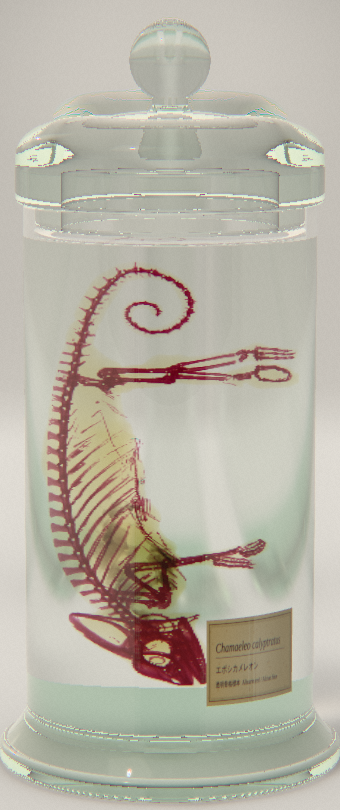
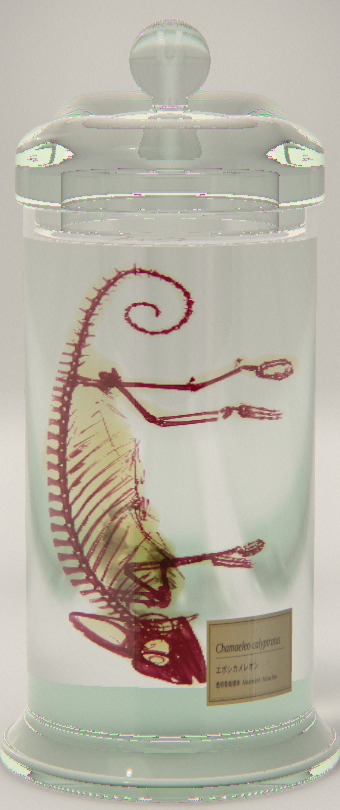
chameleon: re-measure the hind limbs on photo 01 (the shank had been taken for the femur)
- laid over photo 01 at the hips: scale from the head, rotation from the lumbar spine,
  hip midpoint on the photo's hip (fit_hind.py); knee, ankle and toe solved per limb
- the far limb looks ~30% longer in the photo than its bones; its shank and foot match
  direction only
- skin rebuilt in the display pose; glb re-exported

Claude-Session: https://claude.ai/code/session_01TF4RLk5KhXAPd4WrhCdN5z

diff --git a/blender/ct_body_pipeline/fit_hind.py b/blender/ct_body_pipeline/fit_hind.py
@@ -1,0 +1,33 @@
+# 写真 01 の膝・足首・指先に合わせて、後肢の向き（θ, φ）を解く。
+# 頭の 2 点で重ねると胴の曲がりの違いで腰がずれるので、腰のところで重ね直す:
+#   倍率は頭で決めた値（同じ個体）、向きは腰の背骨（v20→v26）を 01 の背骨（腰の高さで縦）にそろえ、股関節の中点を 01 の股関節に置く
+import json, numpy as np, math, sys
+m=json.load(open(sys.argv[1]))
+xz=lambda p: np.array([p[0],p[2]],float)
+ph=lambda p: np.array([p[0],-p[1]],float)
+# 倍率（頭）
+a0,a1=ph((183,338)),ph((278,392)); b0,b1=xz(m['casque']),xz(m['snout'])
+s=np.linalg.norm(b1-b0)/np.linalg.norm(a1-a0)
+# 向き（腰の背骨）
+A=m['axial']; sm=xz(A['v26'][0])-xz(A['v20'][0])
+sp=ph((114,120))-ph((115,200))                      # 01 の背骨、腰の高さ（股関節より尾側へ）
+ang=math.atan2(sm[1],sm[0])-math.atan2(sp[1],sp[0])
+R=np.array([[math.cos(ang),-math.sin(ang)],[math.sin(ang),math.cos(ang)]])
+HIP=(127,160)                                        # 01 の股関節（手前の大腿の、体に近い端）
+hipm=(xz(m['hL_upper'][0])+xz(m['hR_upper'][0]))/2
+T=lambda p: s*R@(ph(p)-ph(HIP))+hipm
+Ti=lambda z: np.linalg.inv(s*R)@(np.asarray(z)-hipm)+ph(HIP)
+print('scale',round(s,4),'rot',round(math.degrees(ang),1))
+ys={c:m[c+'_upper'][0][1] for c in ('hL','hR')}; near=min(ys,key=ys.get); far=max(ys,key=ys.get); print('near',near)
+PTS={near:{'knee':(188,152),'ankle':(218,129),'tip':(256,118)}, far:{'knee':(170,192),'ankle':(226,181),'tip':(277,178)}}
+res={}
+for c in (near,far):
+    pts=PTS[c]; start=xz(m[c+'_upper'][0])
+    q=Ti(start); print(c,'hip in photo',(round(q[0]),round(-q[1])))
+    Ls={'upper':np.linalg.norm(np.subtract(*m[c+'_upper'])),'lower':np.linalg.norm(np.subtract(*m[c+'_lower'])),'foot':np.linalg.norm(np.array(m[c+'_tip'])-np.array(m[c+'_foot'][0]))}
+    for b,k in (('upper','knee'),('lower','ankle'),('foot','tip')):
+        v=T(pts[k])-start; n=np.linalg.norm(v); L=Ls[b]
+        th=math.degrees(math.atan2(v[1],v[0])); phi=math.degrees(math.acos(min(1,n/L)))
+        print(c,b,'in-plane px',round(n/s,1),'bone px',round(L/s,1),'theta',round(th,1),'phi',round(phi,1),'' if n<=L else 'TOO FAR x%.2f'%(n/L))
+        res[c+'_'+b]=(round(th,1),round(phi,1)); start=start+v*min(1,L/n)
+json.dump(res,open('hind_fit.json','w')); print(res)

diff --git a/blender/rig_chameleon_ct.py b/blender/rig_chameleon_ct.py
@@ -63,12 +63,18 @@ POSE_JAR = {
     #   重ねた骨格の関節窩は 01 の (243,305) に来て、01 の上腕（関節窩から肘へ斜めに上がる骨）の下の端と合う。
     #   φ は、面内に見える長さと骨の長さの比から（外へ開く向きと仮定。01 の正面からは向きの前後を読めない）
     #   以前の値（上腕 +17° など）は、前腕を上腕と取り違えて測っていた（2026-10-13 の指摘「丸で囲った骨の位置がおかしい」）
-    # 後肢: 大腿 (165,190)→(230,175) で +13°、下腿 →(280,170) で +6°、足は水平（01、以前の測り方のまま）
+    # 後肢（2026-10-13 に測り直し）: 前肢と同じく、以前は平行な 2 本の骨（下腿）を大腿と取り違えていた。
+    #   頭で重ねると胴の曲がりの違いで腰がずれるので、腰で重ね直した（ct_body_pipeline/fit_hind.py）: 倍率は頭で決めた値、
+    #   向きは腰の背骨（v20→v26）を 01 の腰の高さの背骨（(115,200)→(114,120)、縦）にそろえ、股関節の中点を 01 の (127,160) に置く
+    #   01 の点: 手前の肢 膝 (188,152)・足首 (218,129)・指先 (256,118)（尾の渦の下へ伸びてつかむ肢）。
+    #   奥の肢 膝 (170,192)・足首 (226,181)・指先 (277,178)。奥の肢は 01 の方が骨より 3 割長く見えるので、
+    #   下腿と足は向きだけ合わせ（φ = 0）、指先は 01 より約 17px 手前で止まる
+    #   θ は重ね直した向き（−8.6°）を含む、ほかの骨と同じ世界の向き
     "limbs": {
         "fL_upper": (117.2, 45.1), "fL_lower": (15.5, 23.5), "fL_hand": (0.4, 33.1),
         "fR_upper": (65.2, 69.9), "fR_lower": (3.9, 39.9), "fR_hand": (1.6, 57.9),
-        "hL_upper": (13.0, 35.0), "hL_lower": (6.0, 10.0), "hL_foot": (0.0, 0.0),
-        "hR_upper": (13.0, 35.0), "hR_lower": (6.0, 10.0), "hR_foot": (0.0, 0.0),
+        "hL_upper": (2.4, 0.0), "hL_lower": (27.1, 16.7), "hL_foot": (7.5, 28.7),
+        "hR_upper": (-47.1, 25.7), "hR_lower": (2.5, 0.0), "hR_foot": (-3.6, 0.0),
     },
 }
 

diff --git a/blender/ct_body_pipeline/forefit.py b/blender/ct_body_pipeline/forefit.py
@@ -19,12 +19,13 @@ occ=np.array(M@pb['head'].head); ax=np.array(M@pb['head'].tail)-occ; ax/=np.lina
 snout=H[np.argmax((H-occ)@ax)]
 rr=(H-occ)-np.outer((H-occ)@ax,ax); casque=H[np.argmax(np.linalg.norm(rr,axis=1))]
 out={'snout':snout.tolist(),'casque':casque.tolist()}
-for c in ('fR','fL'):
-    for b in ('upper','lower','hand'):
+for c in ('fR','fL','hL','hR'):
+    for b in (('upper','lower','hand') if c[0]=='f' else ('upper','lower','foot')):
         out[c+'_'+b]=[list(M@pb[c+'_'+b].head),list(M@pb[c+'_'+b].tail)]
 # hand tip: farthest hand vertex from wrist
-for c in ('fR','fL'):
-    Hn=V[gid==[i for i,n in vg.items() if n==c+'_hand'][0]]; w=np.array(out[c+'_hand'][0])
+for c in ('fR','fL','hL','hR'):
+    e=('_hand' if c[0]=='f' else '_foot'); Hn=V[gid==[i for i,n in vg.items() if n==c+e][0]]; w=np.array(out[c+e][0])
     out[c+'_tip']=Hn[np.argmax(np.linalg.norm(Hn-w,axis=1))].tolist()
+out['axial']={b.name:[list(M@b.head),list(M@b.tail)] for b in pb if b.name.startswith('v') or b.name.endswith('_girdle')}
 json.dump(out,open(sys.argv[-1],'w'))
 print('ok')

diff --git a/docs/カメレオン透明標本_計画書_v1.0.md b/docs/カメレオン透明標本_計画書_v1.0.md
@@ -274,7 +274,19 @@ C の記録 2（2026-10-13、前肢の向きの測り直し。指摘「丸で囲
 - 膜は展示の姿勢で作り直した（dump_pose.py → skinloft2.py）。2 倍より伸びた辺 1141 / 225000。わきの下の膜に小さなでこぼこが残る
 - 瓶の倍率は J = 3.83 になった（手足が手前・奥へ開いたので、箱の奥行きが 2.00 → 3.89）
 - 図: `docs/chameleon_ct_body/fore_before_after.png`、`C_jar.png`（直した後）
-- 後肢も同じ取り違えの可能性がある: 01 の後肢でも、以前「大腿」として測った (165,190)→(230,175) は平行な 2 本の骨（下腿）に見え、膝は体の縁にある。まだ直していない
+- 後肢も同じ取り違えの可能性がある: 01 の後肢でも、以前「大腿」として測った (165,190)→(230,175) は平行な 2 本の骨（下腿）に見え、膝は体の縁にある → 記録 3 で直した
+
+C の記録 3（2026-10-13、後肢の向きの測り直し。プロデューサーの指示「後肢も同じ方法で」）:
+
+- 同じ取り違えだった: 以前「大腿」とした骨は下腿。01 では、手前の肢は大腿が股関節から右へほぼ水平に出て、膝 (188,152) から下腿が右上へ、足が尾の渦の下をつかむ。奥の肢は膝 (170,192) が体の縁にあり、下腿と足が右へ伸びる
+- 重ね方: 頭の 2 点で重ねると、胴の曲がりの違いで腰が 01 から大きくずれる（股関節が (129,164) でなく (200,85) に来る）。そこで腰で重ね直した（`ct_body_pipeline/fit_hind.py`）
+  - 倍率は頭で決めた値（同じ個体）、向きは腰の背骨（v20→v26）を 01 の腰の高さの背骨（縦）にそろえる（−8.6°）、股関節の中点を 01 の (127,160)（手前の大腿の、体に近い端）に置く
+- 01 の点: 手前 膝 (188,152)・足首 (218,129)・指先 (256,118)、奥 膝 (170,192)・足首 (226,181)・指先 (277,178)
+  - 手前の肢は骨の長さと 01 の長さが合う（大腿 58px に対し 60px）
+  - 奥の肢は 01 の方が下腿と足で 3 割長く見える（瓶の屈折による拡大か、点の取り方の誤りか、分からない）。下腿と足は向きだけ合わせ（φ = 0）、指先は 01 より約 17px 手前で止まる
+- 新しい値（θ, φ）: 手前（hL）大腿 (2.4, 0.0)、下腿 (27.1, 16.7)、足 (7.5, 28.7)。奥（hR）大腿 (−47.1, 25.7)、下腿 (2.5, 0.0)、足 (−3.6, 0.0)
+- 膜を作り直した。2 倍より伸びた辺 1166 / 225000。瓶の倍率 J = 3.84
+- 図: `docs/chameleon_ct_body/hind_before_after.png`、`C_jar.png`（直した後）
 
 **決めること（プロデューサー）**
 

diff --git a/blender/ct_body_pipeline/README.md b/blender/ct_body_pipeline/README.md
@@ -65,6 +65,7 @@
 | 36 | hyoidfix.py B_h10 B_h11 | → `B_h11.npy` | 舌骨（ラベル 2）から、もう 1 体の個体の指の骨（まわり 1 mm に自分の骨が無く intruder がある塊）を外す。B_h11 = 最終（`chameleon_body_labels.npz`）。softmesh.py・softvol2.py・visceramesh.py・finish.sh は B_h11 で回す |
 | 37 | dump_pose.py（Blender）→ skinloft2.py | → `pose_jar.npz` → `soft_rigged.npz` | 膜の作り直し 3（2026-10-13〜、これが最終の膜）。骨ごとの断面の太さの表（軟部の 90% 点、骨 + 0.3 mm 以上）から、展示の姿勢で一枚に作り、重みを付けて静止の姿勢へ戻す。dump_pose.py は rig_chameleon_ct.py と同じフォルダから走らせる |
 | 38 | forefit.py（Blender、rig_chameleon_ct.py と同じフォルダ）→ fit_fore.py | → `fore*.json` → `fore_fit.json` | 前肢の向き（θ, φ）を写真 01 の肘・手首・指先に合わせて解く。頭の 2 点で骨格を 01 に重ねる。`POSE='<json>'` で試しの向きを渡して確かめる（2026-10-13） |
+| 39 | forefit.py（同上、後肢と背骨も書き出す）→ fit_hind.py | → `limbs*.json` → `hind_fit.json` | 後肢の向きを写真 01 の膝・足首・指先に合わせて解く。腰で重ね直す（倍率は頭、向きは腰の背骨、股関節の中点を 01 の股関節へ）（2026-10-13） |
 | 33 | softvol2.py | → `soft2_vol.npz` | 軟部の体積を、肋骨を戻した空間へ移す（近い骨の動きの重み付き平均）。持ち主 = 戻した空間でいちばん近い骨 |
 | 34 | softmesh2.py（SOFT_WEIGHT_SIGMA_MM=2.0） | → `soft_rigged.npz` | 閉じた膜。つながってはいけない持ち主の間を体積のうちに削り（胴と手足は手足の側を 0.8 mm、同じ肢の隣の骨は関節から 2.5 mm より遠い所、尾は隣の椎骨とだけ）、ならして面にし、15 万面に減らしてから重みを付ける。面は外さない |
 | 35 | visceramesh.py | → `viscera_rigged.npz` | 体腔の内臓の一塊。胴の肋骨の凸包の内側・体軸より腹側・肺（空気の空洞）と骨の外・軟部の密度 0.3 以上の、いちばん大きな塊 |
